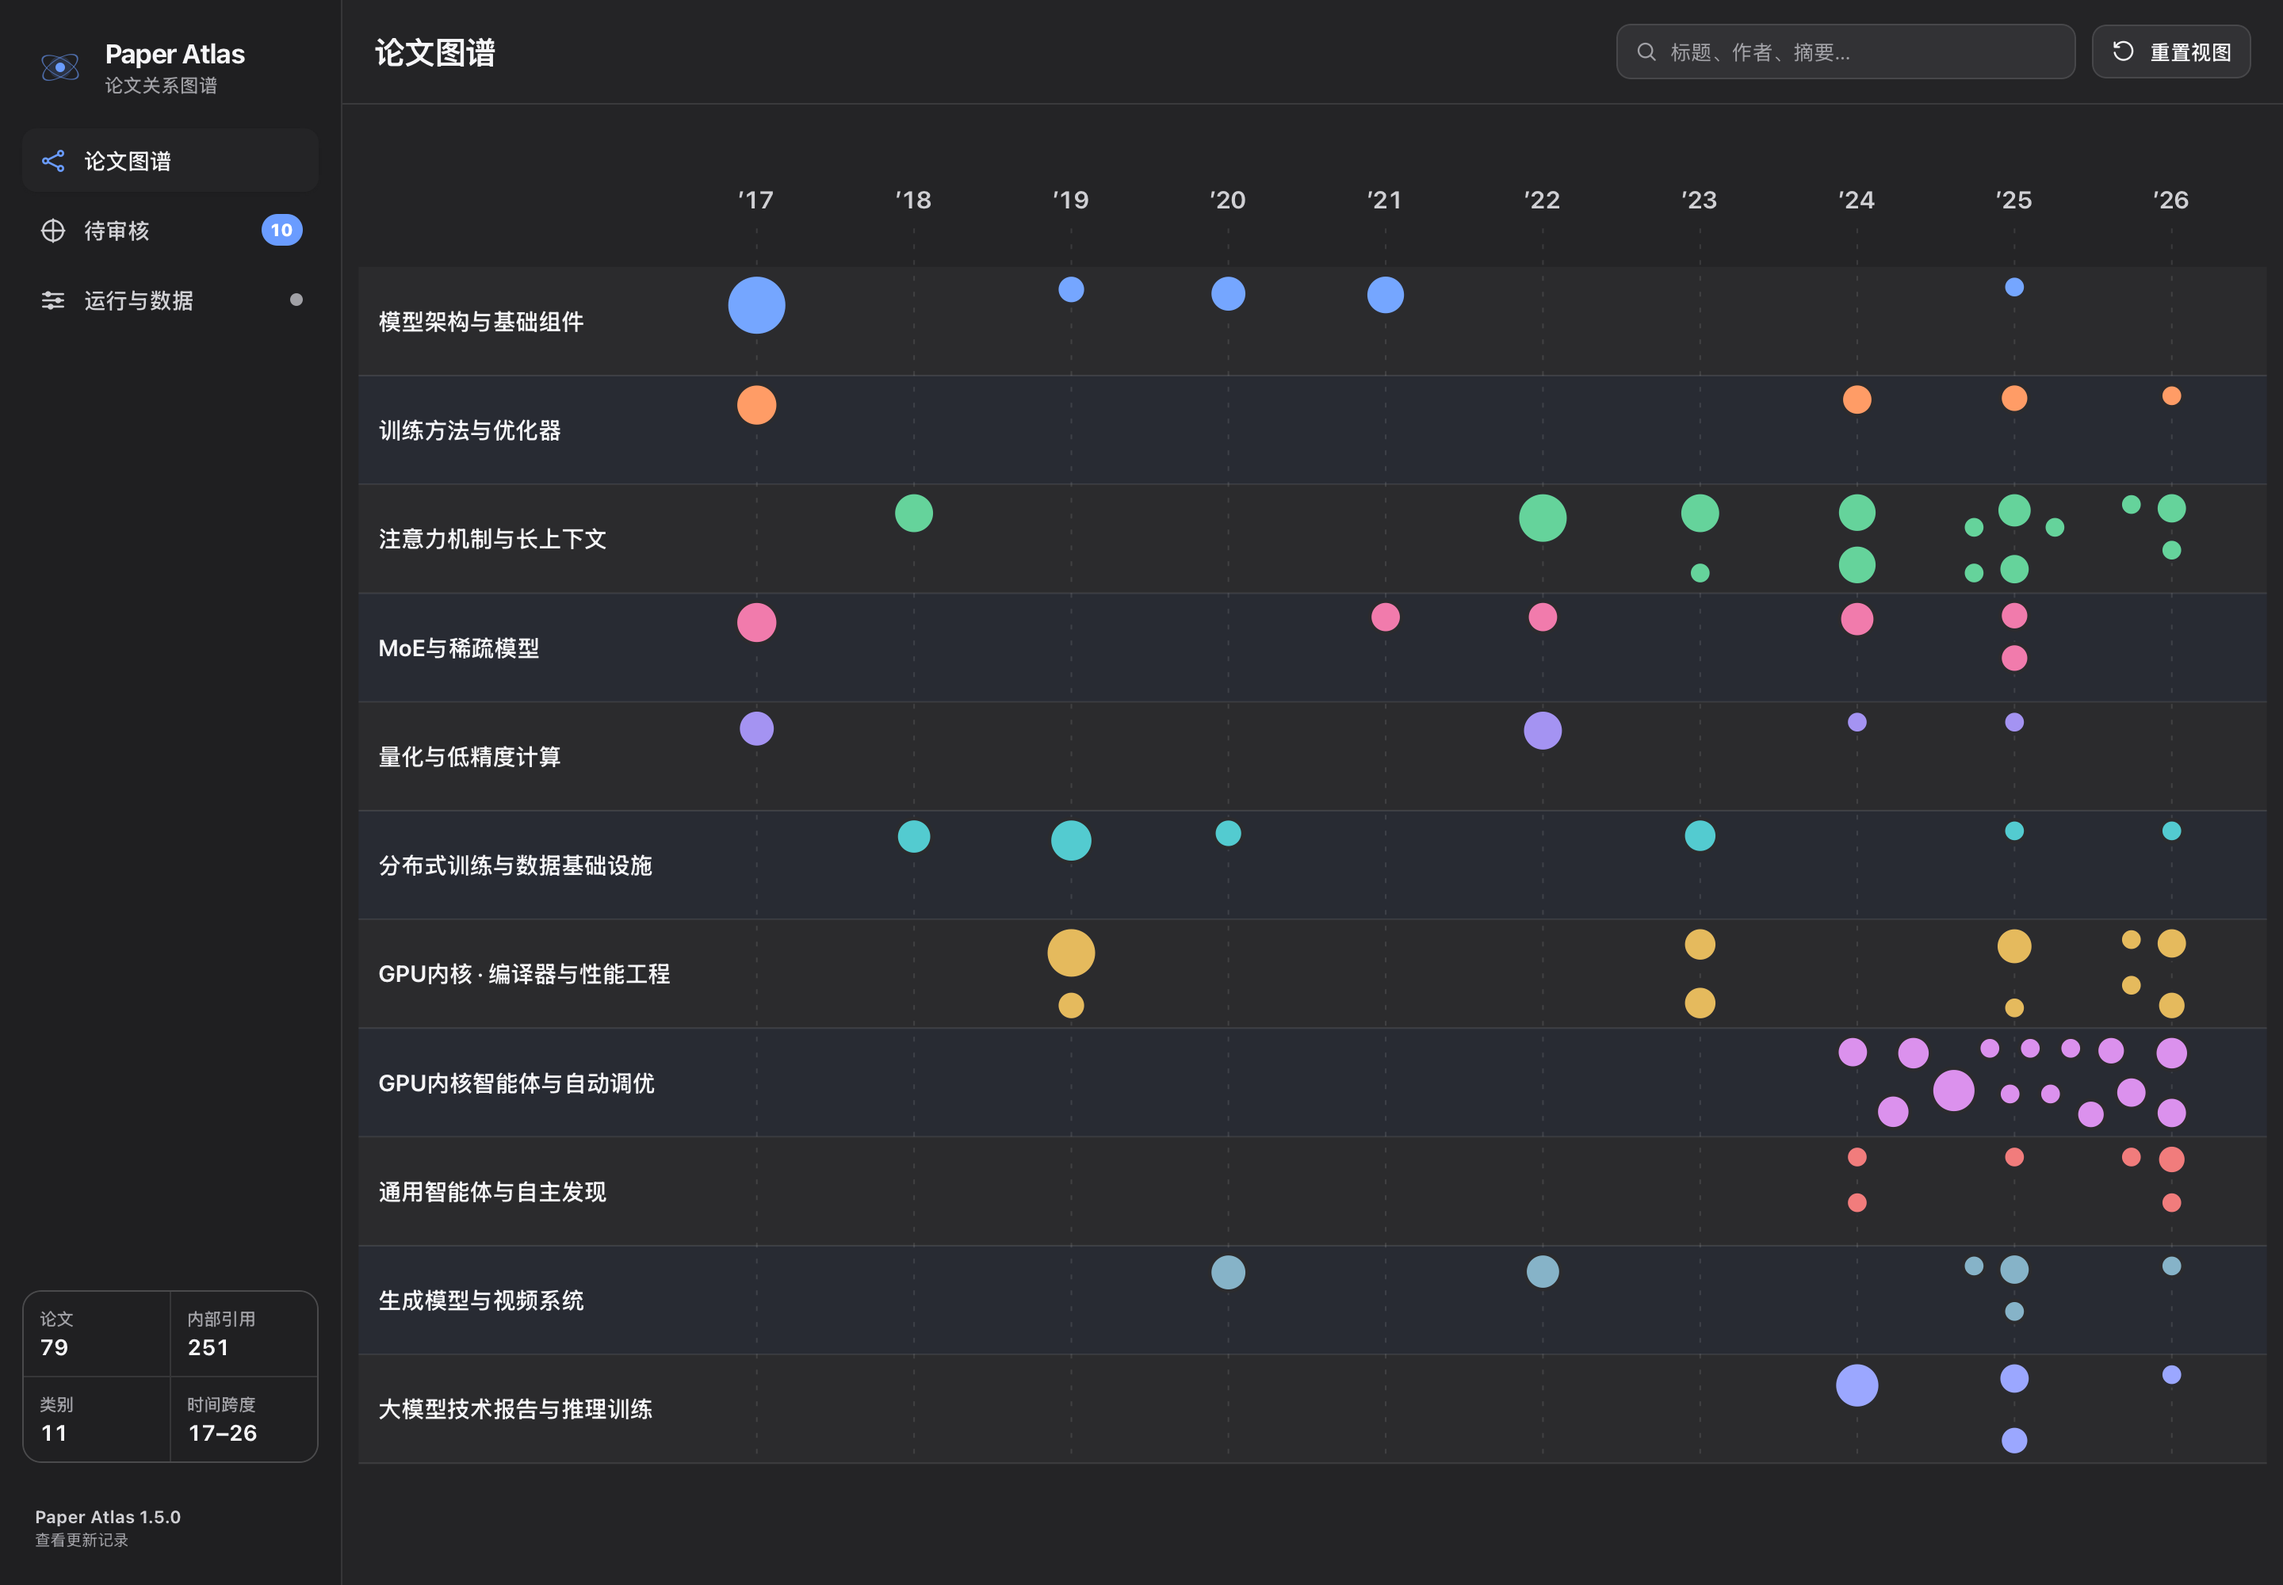
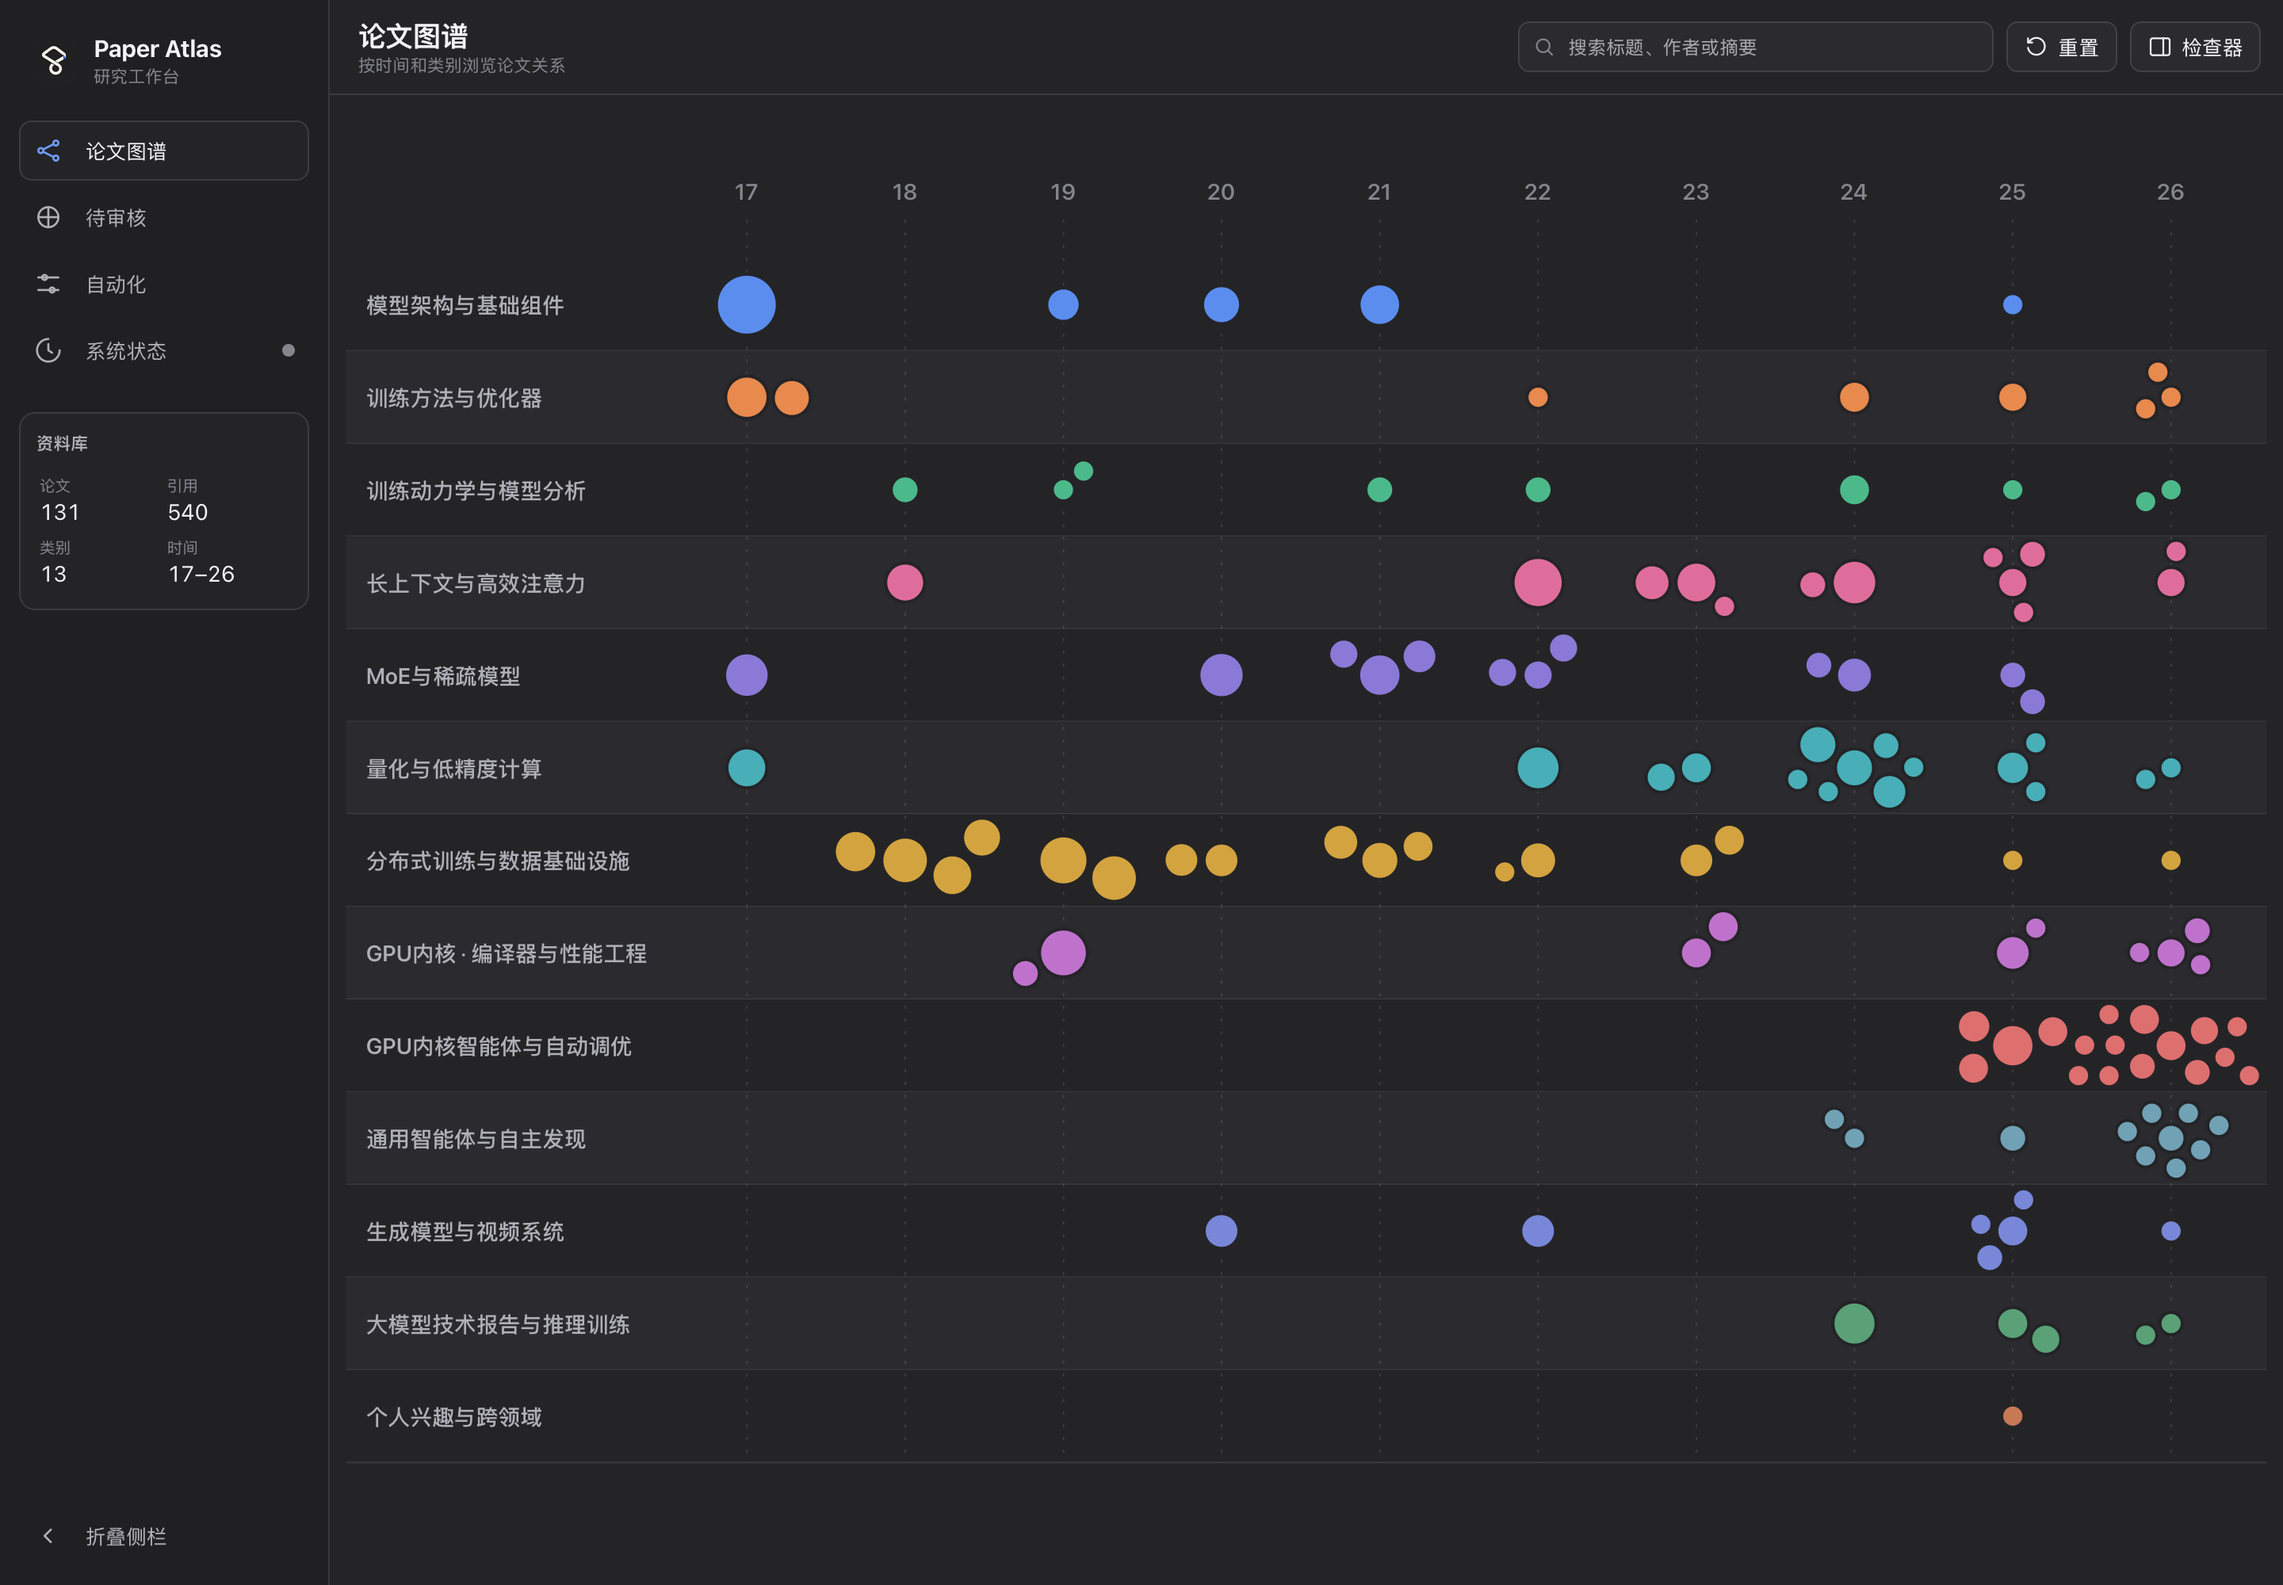
chore: archive migrations and streamline graph payloads

diff --git a/web/app.js b/web/app.js
@@ -314,6 +314,7 @@
   let topicsReturnFocus = null;
   let logsReturnFocus = null;
   let releaseNotesReturnFocus = null;
+  let graphInspectorPreference = null;
   const candidateCategoryOverrides = new Map(Object.entries(loadLocalJson('paper-atlas-category-overrides', {})));
   const topicTemplateButtons = new Map();
   const uiState = createStore({activeView, searchTerm, discoverySource, discoveryCategory});
@@ -809,6 +810,13 @@
     graphInspectorReadStatus.textContent = isNodeRead(node) ? '已读 ✓' : '标记已读';
     graphInspectorReadStatus.classList.toggle('active', isNodeRead(node));
     graphInspectorReadStatus.setAttribute('aria-pressed', String(isNodeRead(node)));
+  }
+
+  function syncGraphInspectorVisibility() {
+    const hidden = graphInspectorPreference === null ? !selectedNode : graphInspectorPreference;
+    graphWorkspace.classList.toggle('inspector-hidden', hidden);
+    toggleGraphInspector.classList.toggle('active', !hidden);
+    toggleGraphInspector.setAttribute('aria-pressed', String(!hidden));
   }
 
   function candidateSourceLabel(source) {
@@ -2942,6 +2950,7 @@
       showToast(result.message);
       clearPaperDetail();
       selectedNode = null;
+      syncGraphInspectorVisibility();
       await refreshGraphData();
     } catch (error) {
       showToast(error.message, 'error');
@@ -2962,6 +2971,7 @@
     if (!node) return;
     hideTooltip();
     selectedNode = nodeId;
+    syncGraphInspectorVisibility();
     render();
   }
 
@@ -3052,9 +3062,9 @@
   graphSearchPrev.addEventListener('click', () => stepGraphSearch(-1));
   graphSearchNext.addEventListener('click', () => stepGraphSearch(1));
   toggleGraphInspector.addEventListener('click', () => {
-    const hidden = graphWorkspace.classList.toggle('inspector-hidden');
-    toggleGraphInspector.classList.toggle('active', !hidden);
-    toggleGraphInspector.setAttribute('aria-pressed', String(!hidden));
+    const hidden = !graphWorkspace.classList.contains('inspector-hidden');
+    graphInspectorPreference = hidden;
+    syncGraphInspectorVisibility();
     try { localStorage.setItem('paper-atlas-inspector-hidden', String(hidden)); } catch (_error) { /* optional */ }
   });
   graphInspectorPreview.addEventListener('click', () => {
@@ -3177,6 +3187,7 @@
   resetViewButton.addEventListener('click', () => {
     selectedNode = null;
     clearPaperDetail();
+    syncGraphInspectorVisibility();
     render();
     resetViewButton.classList.remove('is-confirmed');
     void resetViewButton.offsetWidth;
@@ -3194,6 +3205,7 @@
     if (!event.target.closest('.node')) {
       selectedNode = null;
       clearPaperDetail();
+      syncGraphInspectorVisibility();
       render();
     }
   });
@@ -3202,10 +3214,9 @@
   try { initialView = sessionStorage.getItem('paper-atlas-view') || activeView; } catch (_error) { /* optional */ }
   try {
     document.querySelector('.app-shell').classList.toggle('sidebar-collapsed', localStorage.getItem('paper-atlas-sidebar-collapsed') === 'true');
-    const inspectorHidden = localStorage.getItem('paper-atlas-inspector-hidden') === 'true';
-    graphWorkspace.classList.toggle('inspector-hidden', inspectorHidden);
-    toggleGraphInspector.classList.toggle('active', !inspectorHidden);
-    toggleGraphInspector.setAttribute('aria-pressed', String(!inspectorHidden));
+    const savedInspectorPreference = localStorage.getItem('paper-atlas-inspector-hidden');
+    graphInspectorPreference = savedInspectorPreference === null ? null : savedInspectorPreference === 'true';
+    syncGraphInspectorVisibility();
   } catch (_error) { /* optional */ }
   paperSearch.value = searchTerm;
   candidateSourceFilter.value = discoverySource;

diff --git a/tests/test_api_contract.py b/tests/test_api_contract.py
@@ -2,6 +2,7 @@ import json
 import tempfile
 import time
 import unittest
+from unittest import mock
 from pathlib import Path
 import sys
 
@@ -43,6 +44,19 @@ class ContractTests(unittest.TestCase):
             ))
             self.assertEqual(status, 200)
             self.assertEqual(payload["data"]["paper"], {"id": "p00", "read": True})
+            controller.jobs.close()
+
+    def test_graph_response_excludes_discovery_only_external_references(self):
+        with tempfile.TemporaryDirectory() as directory:
+            controller = ApiController(Path(directory), jobs=JobManager(Path(directory) / ".cache"))
+            with mock.patch.object(
+                sys.modules["api_controller"].discovery_utils,
+                "load_json",
+                return_value={"nodes": [], "edges": {}, "external_references": [{"title": "large"}]},
+            ):
+                status, payload = controller.handle(ApiRequest("GET", "/api/v1/graph"))
+            self.assertEqual(status, 200)
+            self.assertNotIn("external_references", payload["data"])
             controller.jobs.close()
 
     def test_score_palette_is_per_candidate_and_review_footer_stays_fixed_without_compositor_ghosts(self):

diff --git a/scripts/api_controller.py b/scripts/api_controller.py
@@ -113,7 +113,12 @@ class ApiController:
         if name == "topics.update":
             return success(self.services.save_topics(body), request.request_id)
         if name == "graph.read":
-            return success(discovery_utils.load_json(discovery_utils.DEFAULT_GRAPH, {"nodes": [], "edges": {}}), request.request_id, revision=self._revision())
+            graph = discovery_utils.load_json(discovery_utils.DEFAULT_GRAPH, {"nodes": [], "edges": {}})
+            # The UI only needs internal nodes and edges. External references
+            # remain in graph.json for shared-reference discovery, but sending
+            # thousands of them through the native bridge makes a refresh slow.
+            browser_graph = {key: value for key, value in graph.items() if key != "external_references"}
+            return success(browser_graph, request.request_id, revision=self._revision())
         if name == "papers.read_status":
             return success(self.services.set_paper_read_status(body), request.request_id)
         if name == "candidates.list":

diff --git a/scripts/migrations/taxonomy_v2.py b/scripts/migrations/taxonomy_v2.py
@@ -6,10 +6,14 @@ from __future__ import annotations
 import argparse
 import hashlib
 import shutil
+import sys
 from collections import Counter
 from pathlib import Path
 
 from pypdf import PdfReader
+
+REPO_ROOT = Path(__file__).resolve().parents[2]
+sys.path.insert(0, str(REPO_ROOT / "scripts"))
 
 import build_graph
 
@@ -184,7 +188,7 @@ def verify(papers_dir: Path) -> Counter[str]:
 
 def main() -> int:
     parser = argparse.ArgumentParser(description=__doc__)
-    parser.add_argument("--papers-dir", type=Path, default=Path(__file__).resolve().parents[2])
+    parser.add_argument("--papers-dir", type=Path, default=REPO_ROOT.parent)
     parser.add_argument("--dry-run", action="store_true")
     args = parser.parse_args()
     papers_dir = args.papers_dir.expanduser().resolve()

diff --git a/scripts/migrations/taxonomy_v14.py b/scripts/migrations/taxonomy_v14.py
@@ -11,6 +11,7 @@ from pathlib import Path
 
 from pypdf import PdfReader
 
+REPO_ROOT = Path(__file__).resolve().parents[2]
 
 OLD_TO_NEW = {
     "01_模型架构与训练优化": "01_模型架构与基础组件",
@@ -128,7 +129,7 @@ def verify(papers_dir: Path) -> Counter[str]:
 
 def main() -> int:
     parser = argparse.ArgumentParser(description=__doc__)
-    parser.add_argument("--papers-dir", type=Path, default=Path(__file__).resolve().parents[2])
+    parser.add_argument("--papers-dir", type=Path, default=REPO_ROOT.parent)
     parser.add_argument("--dry-run", action="store_true")
     args = parser.parse_args()
     papers_dir = args.papers_dir.expanduser().resolve()

diff --git a/docs/backend-api-v1.md b/docs/backend-api-v1.md
@@ -35,7 +35,7 @@
 | --- | --- | --- |
 | GET | `/api/v1/bootstrap` | 能力、revision、数量摘要 |
 | GET/PUT | `/api/v1/topics` | 读取或保存搜索主题 |
-| GET | `/api/v1/graph` | 当前图谱快照 |
+| GET | `/api/v1/graph` | 当前浏览图谱快照；不返回仅供共同引用发现使用的外部参考文献池 |
 | GET | `/api/v1/candidates` | 分页读取候选，支持 `status/source/category/limit` |
 | POST | `/api/v1/discovery-runs` | 创建一次多来源发现任务 |
 | POST | `/api/v1/candidates/{id}/decision` | 原子提交推荐反馈与审核决定 |

diff --git a/scripts/migrations/README.md b/scripts/migrations/README.md
@@ -1,0 +1,8 @@
+# 历史分类迁移
+
+这里保留的是旧版本分类体系的一次性迁移工具，不属于 Paper Atlas 的日常运行路径。
+
+- `taxonomy_v14.py`：将早期 10 类结构迁移到 v1.4 分类。
+- `taxonomy_v2.py`：将完整论文库迁移到当前 13 类结构。
+
+日常整理请使用 App 内的“整理未分类论文”，或运行 `make classify`。历史迁移脚本默认只应在旧资料库升级时使用，执行前建议先运行 `--dry-run` 并做好备份。
